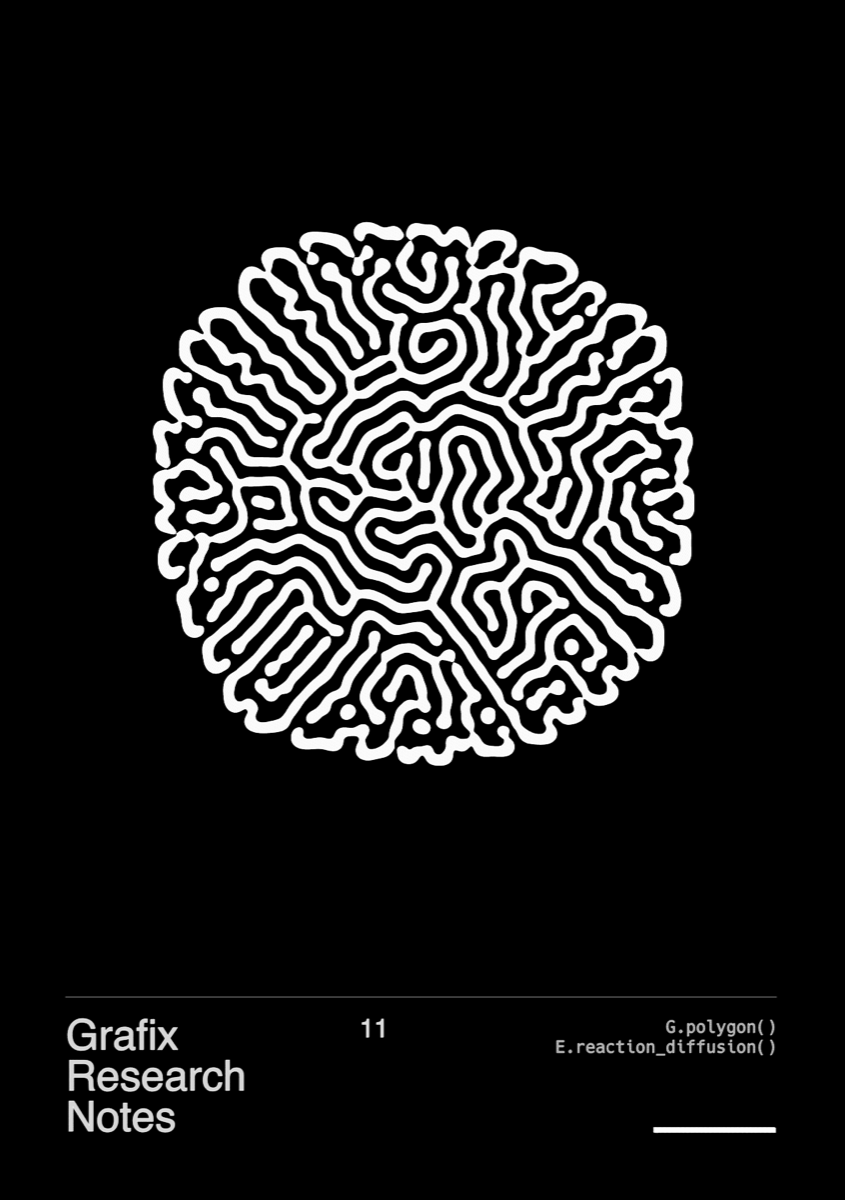
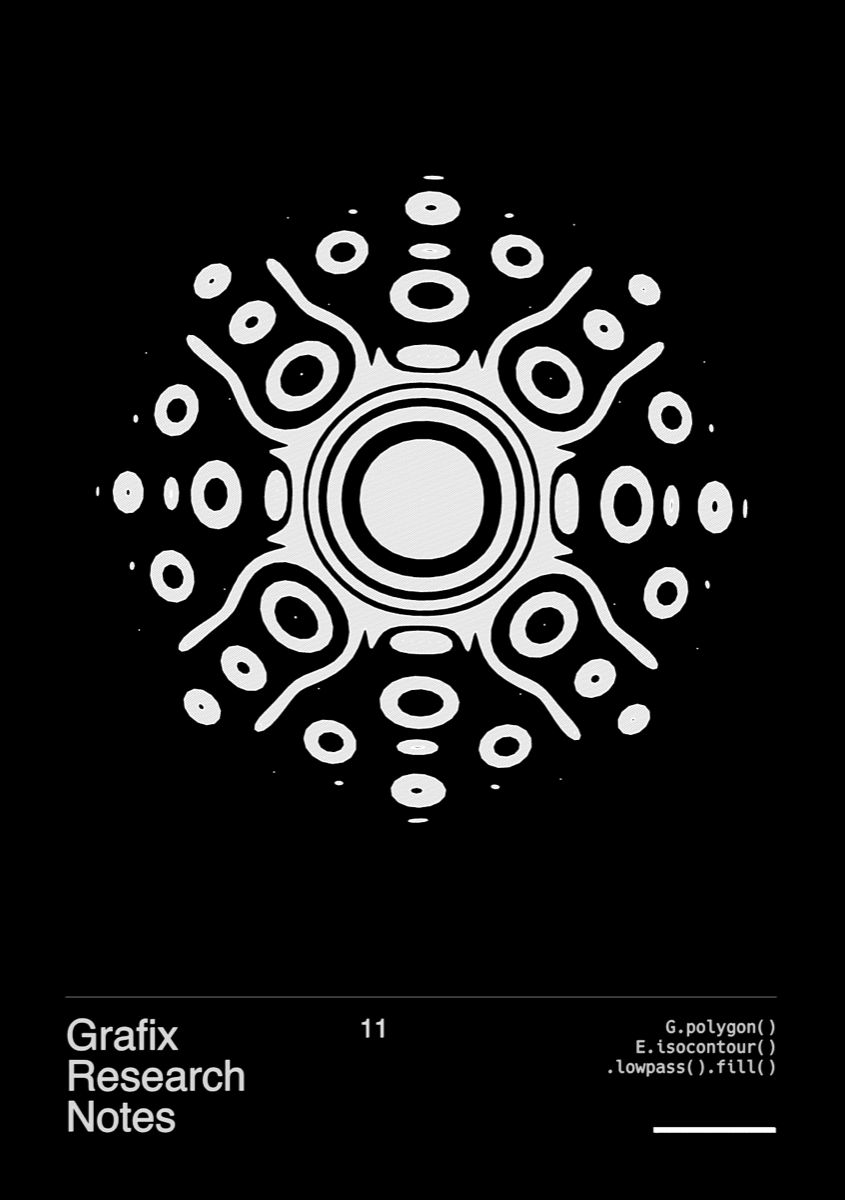
📝

Changed region(s): [[0.1231, 0.1542, 0.8923, 0.6783], [0.6462, 0.8633, 0.9231, 0.8942]]

diff --git a/sketch/readme/grn/11.py b/sketch/readme/grn/11.py
@@ -1,14 +1,7 @@
-from __future__ import annotations
-
+import math
 from pathlib import Path
 
-import numpy as np
-from numba import njit
-
 from grafix import E, G, P, run
-from grafix.api import primitive
-from grafix.core.parameters.meta import ParamMeta
-from grafix.core.realized_geometry import RealizedGeometry
 
 # A5
 CANVAS_WIDTH = 148
@@ -16,51 +9,55 @@ CANVAS_HEIGHT = 210
 
 
 def draw(t):
-    g = G.polygon(
-        activate=True,
-        n_sides=128,
-        phase=89.08500000000001,
-        sweep=360.0,
-        center=(74.176, 86.413, 0.0),
-        scale=108.81400000000001,
-    )
-
-    e = E.reaction_diffusion(
-        activate=True,
-        grid_pitch=0.298,
-        steps=4500,
-        du=0.16,
-        dv=0.08,
-        feed=0.029,
-        kill=0.057,
-        dt=1.0,
-        seed=42,
-        seed_radius=10.0,
-        noise=0.02,
-        level=0.2,
-        min_points=24,
-        boundary="dirichlet",
-    ).fill(
-        activate=True,
-        angle_sets=1,
-        angle=45.0,
-        density=3000.0,
-        spacing_gradient=0.0,
-        remove_boundary=False,
-    )
-
-    g = e(g)
-
     frame = P.grn_a5_frame(
         activate=True,
         show_layout=False,
-        layout_color_rgb255=(191, 191, 191),
-        number_text=str(Path(__file__).stem),
+        number_text=Path(__file__).stem,
+        explanation_text="G.polygon()\nE.isocontour()\n.lowpass().fill()",
         explanation_density=500.0,
         template_color_rgb255=(255, 255, 255),
     )
 
-    return g, frame
+    g = G.polygon(
+        activate=True,
+        n_sides=128,
+        phase=45.0,
+        sweep=360.0,
+        center=(74.0, 87.363, 0.0),
+        scale=3.093,
+    )
+
+    e = (
+        E.isocontour(
+            activate=True,
+            spacing=0.46399999999999997,
+            phase=-8.007,
+            max_dist=55.669999999999995,
+            mode="outside",
+            grid_pitch=1.142,
+            gamma=2.8699999999999997,
+            level_step=1,
+            auto_close_threshold=0.001,
+            keep_original=True,
+        )
+        .lowpass(
+            activate=True,
+            step=2.459,
+            sigma=4.742,
+            closed="auto",
+        )
+        .fill(
+            activate=True,
+            angle_sets=1,
+            angle=45.0,
+            density=408.935,
+            spacing_gradient=0.0,
+            remove_boundary=False,
+        )
+    )
+
+    g = e(g)
+    return frame, g
 
 
 if __name__ == "__main__":
@@ -72,6 +69,7 @@ if __name__ == "__main__":
         render_scale=5,
         canvas_size=(CANVAS_WIDTH, CANVAS_HEIGHT),
         parameter_gui=True,
-        midi_port_name="auto",
+        midi_port_name="Grid",
         midi_mode="14bit",
+        fps=24,
     )

diff --git a/README.md b/README.md
@@ -50,11 +50,11 @@ if __name__ == "__main__":
     <td><img src="docs/readme/grn/11.png" width="320" alt="grn 11" /></td>
     <td><img src="docs/readme/grn/12.png" width="320" alt="grn 12" /></td>
   </tr>
-  <!-- <tr>
+  <tr>
     <td><img src="docs/readme/grn/13.png" width="320" alt="grn 13" /></td>
     <td><img src="docs/readme/grn/14.png" width="320" alt="grn 14" /></td>
     <td><img src="docs/readme/grn/15.png" width="320" alt="grn 15" /></td>
-  </tr> -->
+  </tr>
 </table>
 <!-- END:README_EXAMPLES_GRN -->
 
@@ -220,6 +220,27 @@ List built-in ops:
 python -m grafix list effects
 python -m grafix list primitives
 python -m grafix list
+```
+
+Regenerate API stubs (for `P.<name>(...)` completion):
+
+```bash
+python -m grafix stub
+```
+
+Headless export (PNG):
+
+```bash
+python -m grafix export --callable your_module:draw --t 0.0
+python -m grafix export --callable your_module:draw --t 0.0 1.0 2.0 --out-dir data/output
+```
+
+Note: `--callable module:attr` follows Python import rules (make sure the module is importable from your current working directory / `PYTHONPATH`).
+
+Benchmark (effect perf + report):
+
+```bash
+python -m grafix benchmark -- --help
 ```
 
 ## Dependencies
